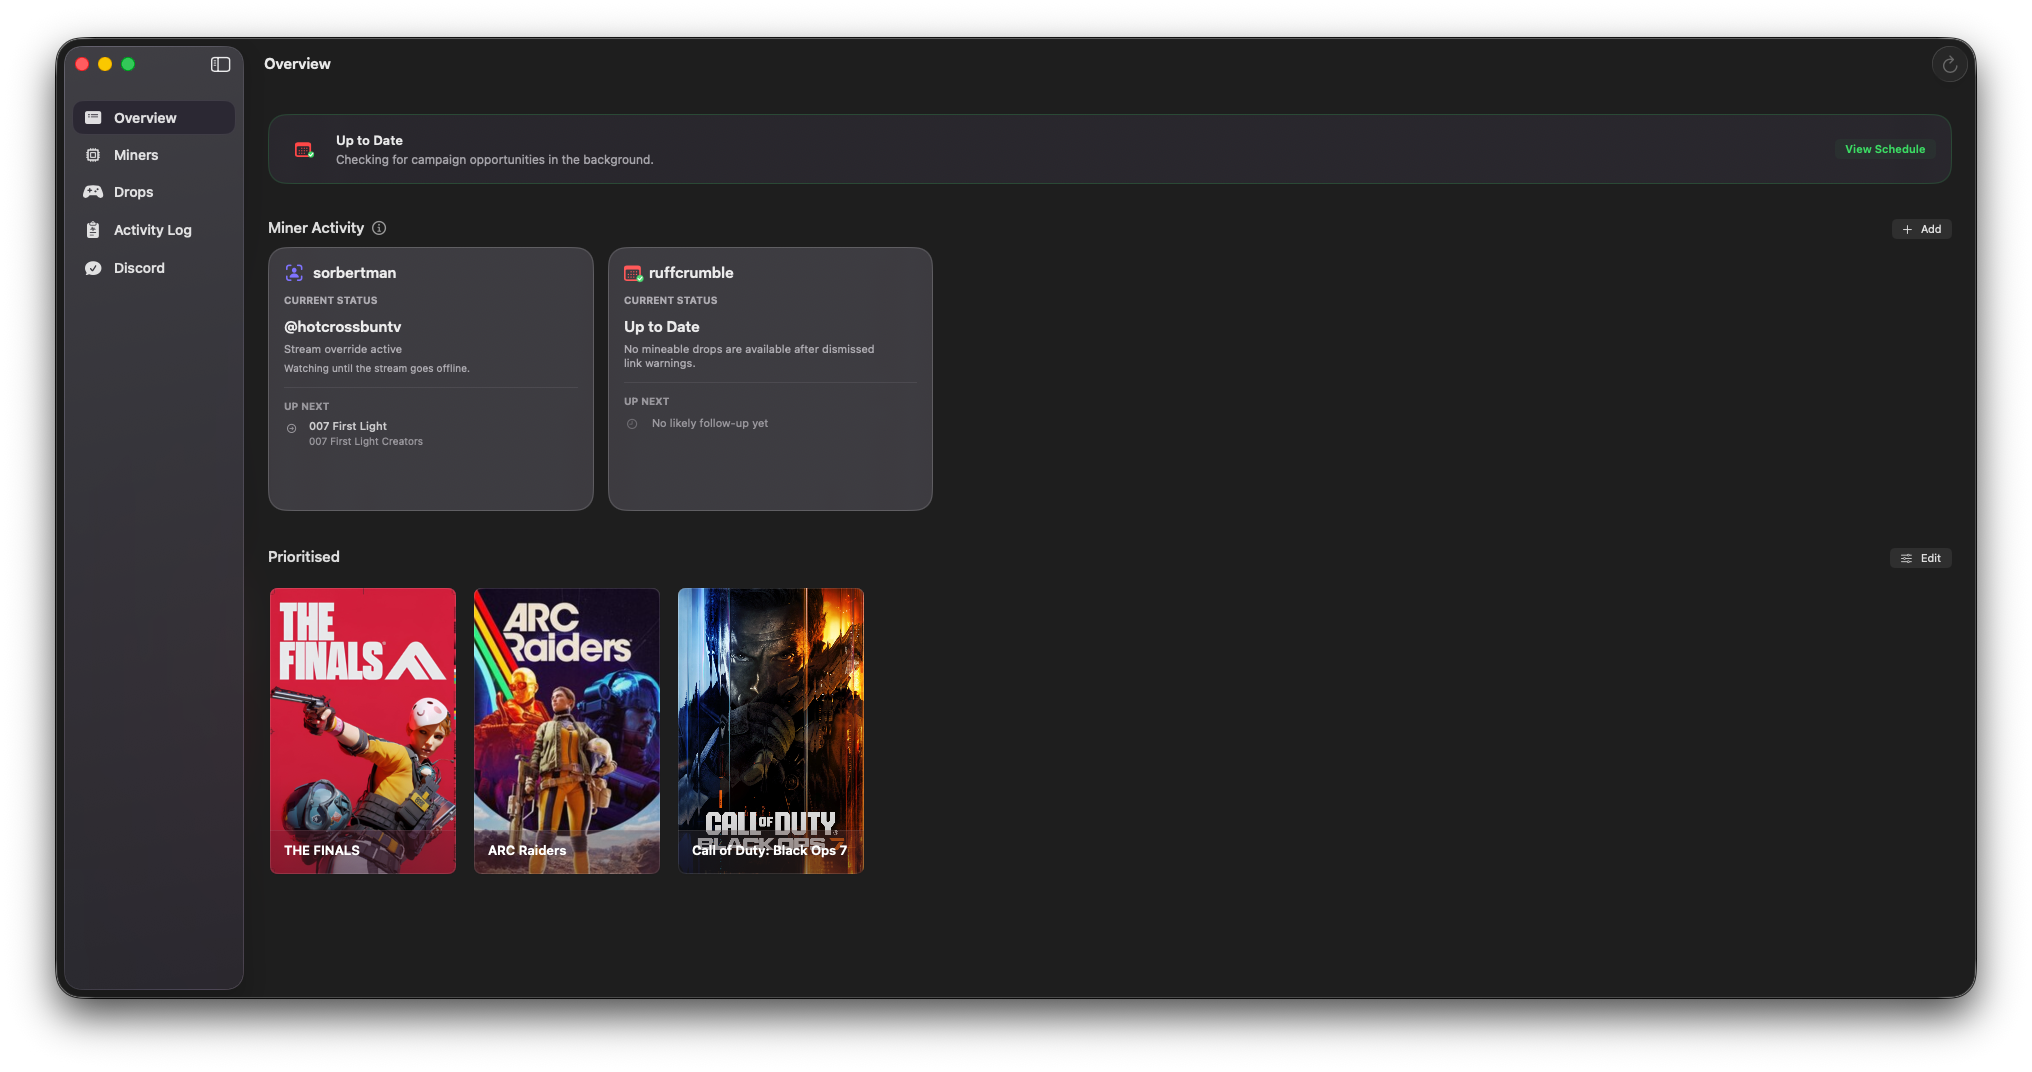
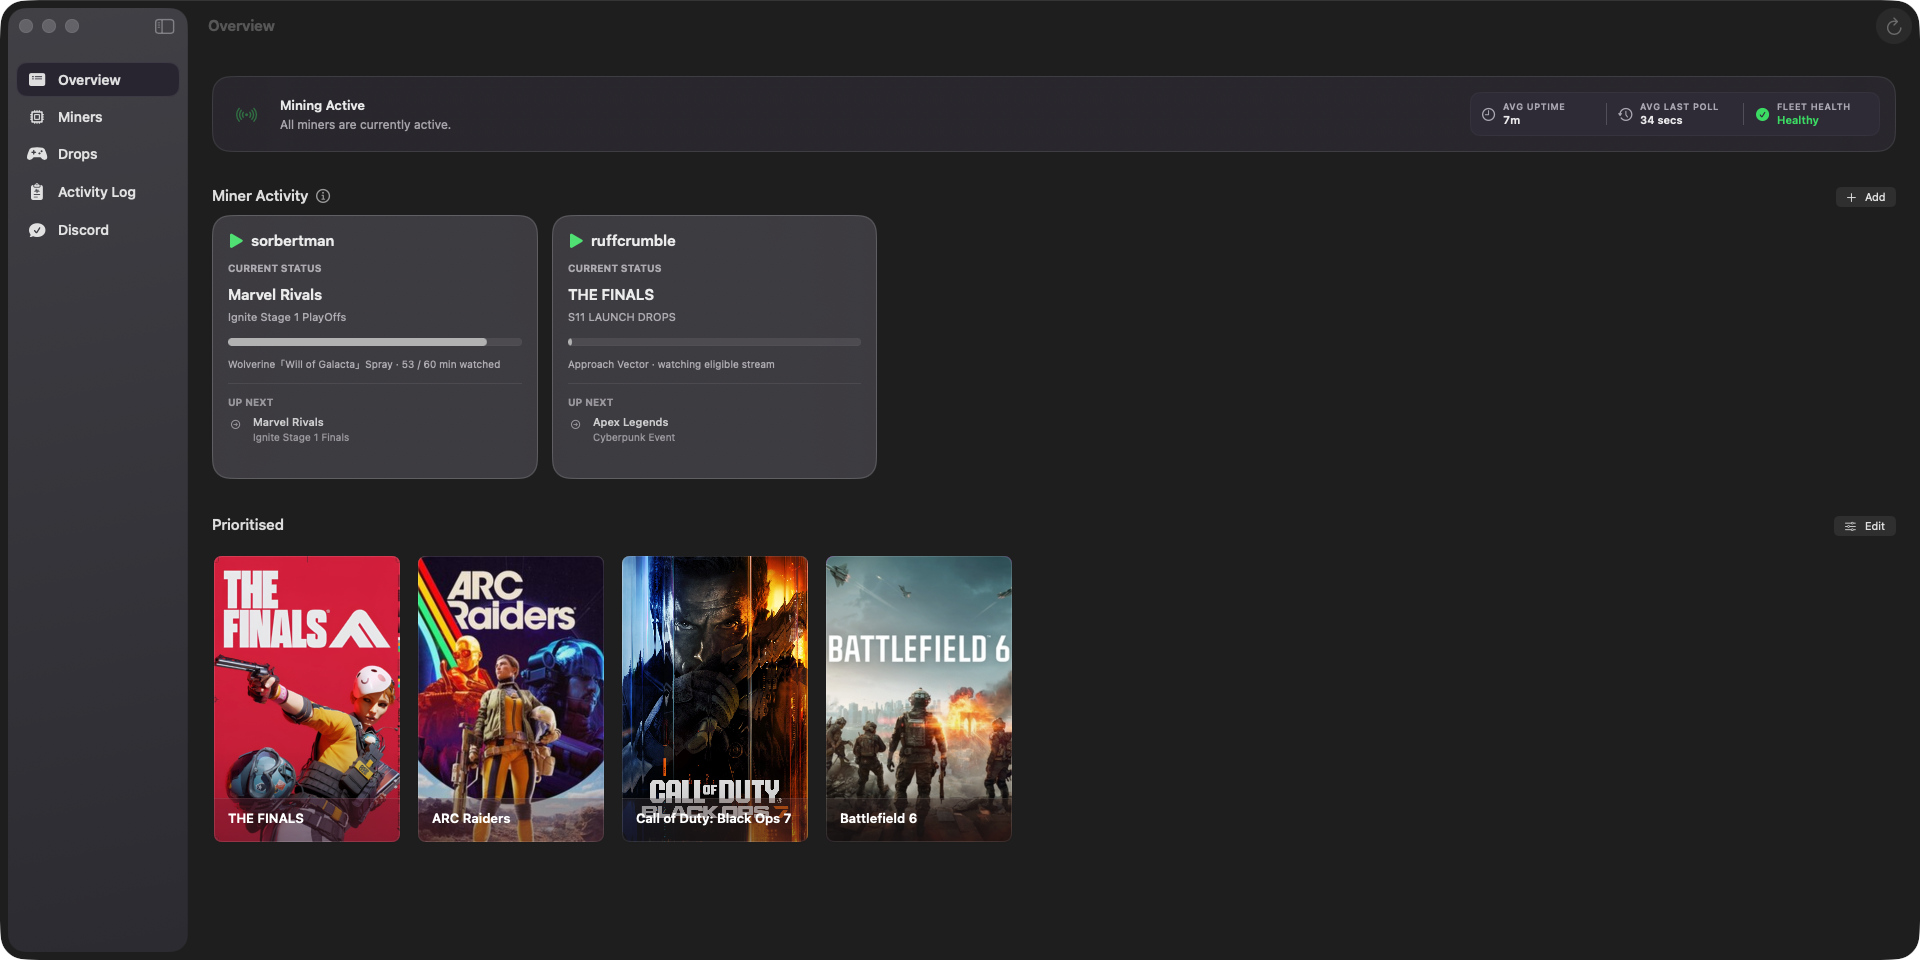
Refresh the group-at-a-glance screenshot
The "whole group at a glance" card still used multi-user-dark.webp from
25 June, several UI revisions out of date, and its alt text claimed five
Twitch accounts.

- Point the card at the current Overview capture and describe it accurately
  rather than by a fixed account count.
- Drop the multi-user assets; the Overview is the group view, so a separate
  near-duplicate image only went stale on its own schedule.
- Refresh overview-dark.png, the structured-data screenshot, which was from
  the same June capture.

diff --git a/Website/public/index.html b/Website/public/index.html
@@ -346,7 +346,7 @@
                             <p class="text-slate-600 dark:text-gray-400 leading-relaxed">See every account’s live status, current campaign, next reward, and shared game priorities from one macOS dashboard.</p>
                         </div>
                         <div class="screenshot-frame">
-                            <img data-screenshot="multi-user" src="./assets/landing/multi-user-dark.webp" width="2032" height="1071" loading="lazy" decoding="async" alt="SwiftMiner Overview showing five Twitch accounts and their active Drops status" class="w-full transition-all duration-300 opacity-100">
+                            <img data-screenshot="multi-user" src="./assets/landing/overview-dark.webp" width="1920" height="960" loading="lazy" decoding="async" alt="SwiftMiner Overview showing every connected Twitch account's live status, current campaign and shared game priorities" class="w-full transition-all duration-300 opacity-100">
                         </div>
                     </article>
 
